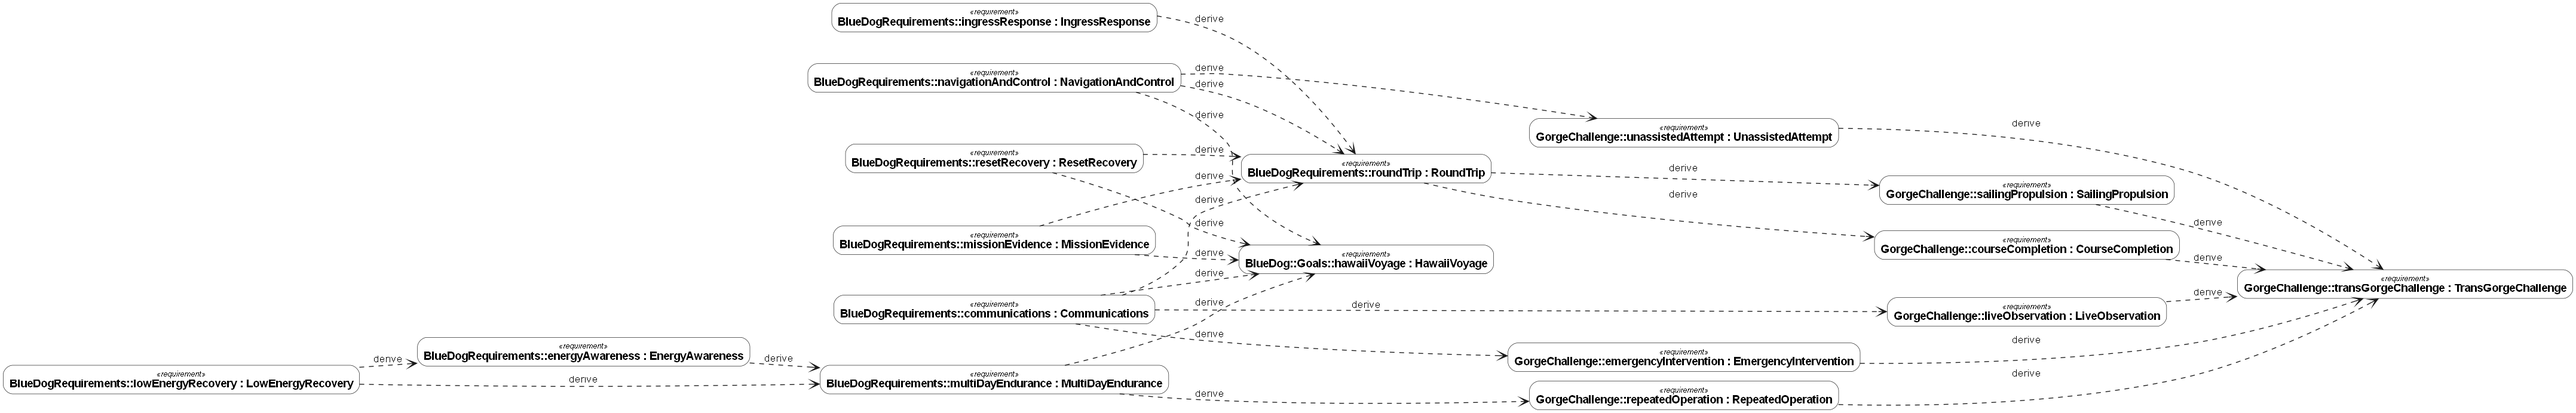
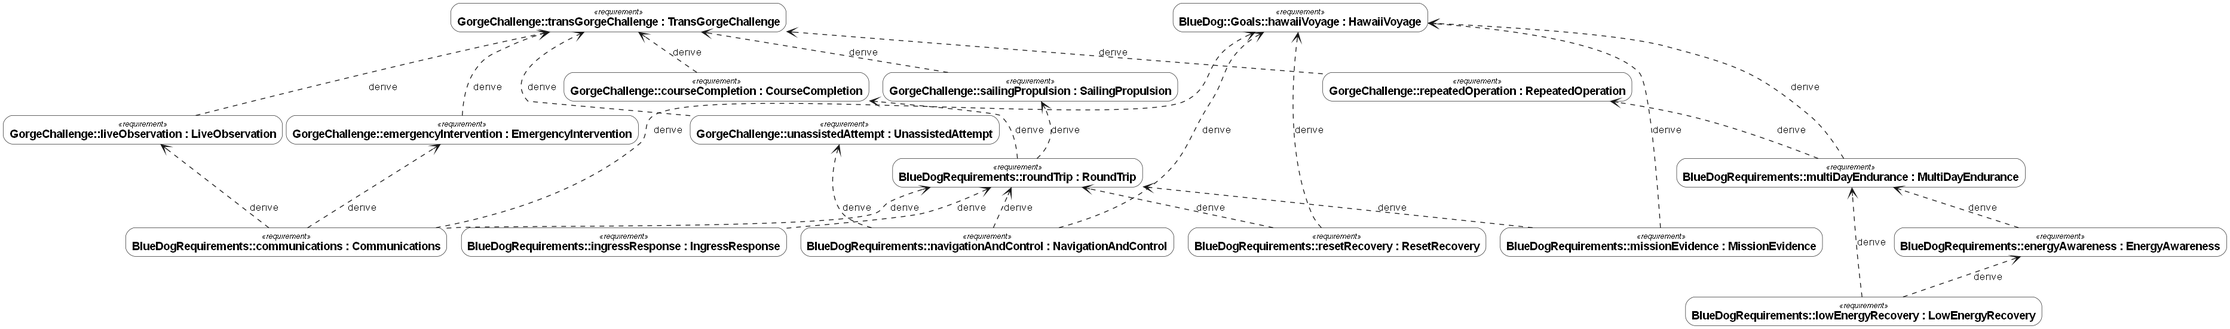
Lay out requirements top-down with both mission drivers at the top

diff --git a/scripts/render_requirements.py b/scripts/render_requirements.py
@@ -1,5 +1,6 @@
 """Validate and publish requirements with the pinned native OpenSysML CLI."""
 import argparse
+import re
 import shutil
 import subprocess
 import sys
@@ -55,8 +56,14 @@ def main():
         if not dot:
             raise SystemExit("Install Graphviz and ensure dot is on PATH, then rerun.")
         source_path = ROOT / "docs/figures/requirements-derivation.dot"
+        # Align the two mission drivers at the top without changing native edges.
+        layout = source_path.read_text(encoding="utf-8")
+        roots = re.findall(r'"(n[0-9]+)" \[.*?<b>(?:GorgeChallenge::transGorgeChallenge|BlueDog::Goals::hawaiiVoyage) :', layout)
+        if len(roots) != 2:
+            raise SystemExit("Expected both top-level requirements in the native diagram.")
+        layout = layout.rstrip().removesuffix("}") + '\n{ rank=sink; ' + '; '.join(roots) + '; }\n}\n'
         for extension in ("svg", "png"):
-            subprocess.run([dot, "-Grankdir=LR", f"-T{extension}", str(source_path), "-o", str(source_path.with_suffix('.' + extension))], check=True)
+            subprocess.run([dot, "-Grankdir=BT", f"-T{extension}", "-o", str(source_path.with_suffix('.' + extension))], input=layout, text=True, encoding="utf-8", check=True)
     print("Native model validation and document generation passed; satisfaction is not evaluated.")
 
 

diff --git a/models/README.md b/models/README.md
@@ -61,7 +61,11 @@ The two graph roots are C-000 (Trans-Gorge challenge) and H-001 (Hawaii voyage).
 Vehicle requirements live in the distinct `BlueDogRequirements` package; files
 do not reopen or merge separate declarations of the `BlueDog` package. OpenSysML selects the nodes and
 relationships and writes DOT; Python no longer constructs diagram nodes or edges.
-Graphviz converts that unmodified DOT to SVG/PNG with a left-to-right layout.
+Graphviz converts the native DOT to SVG/PNG with high-level requirements above their derived requirements.
+Graphviz uses `rankdir=BT` because native derive arrows point from derived to
+original; the arrows therefore point upward while the hierarchy reads top-down.
+A rendering-only rank constraint aligns both mission drivers on the top row;
+the saved native DOT and all native nodes and edges remain unchanged.
 
 The native CLI is pinned separately to `nightly-20261009-28106371e`. Release 0.9.2
 renders this view as a containment tree without derivation links; the dated nightly
